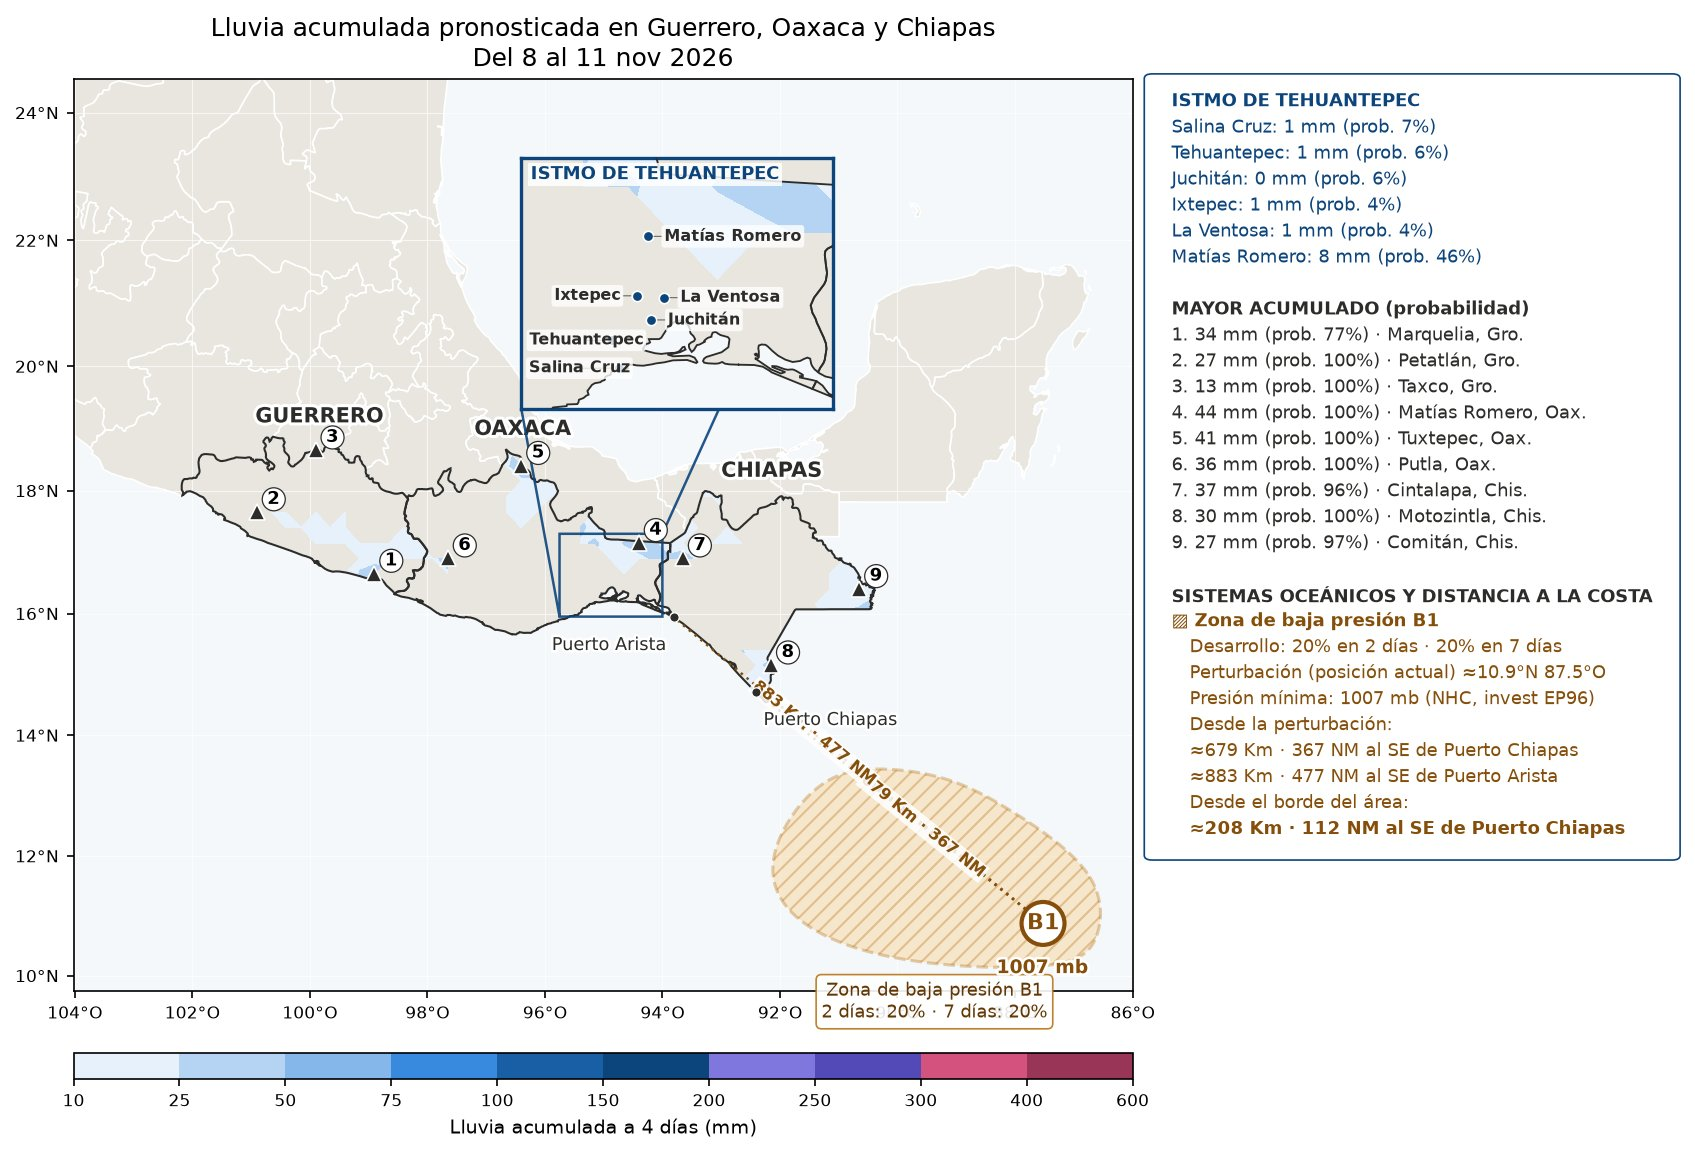
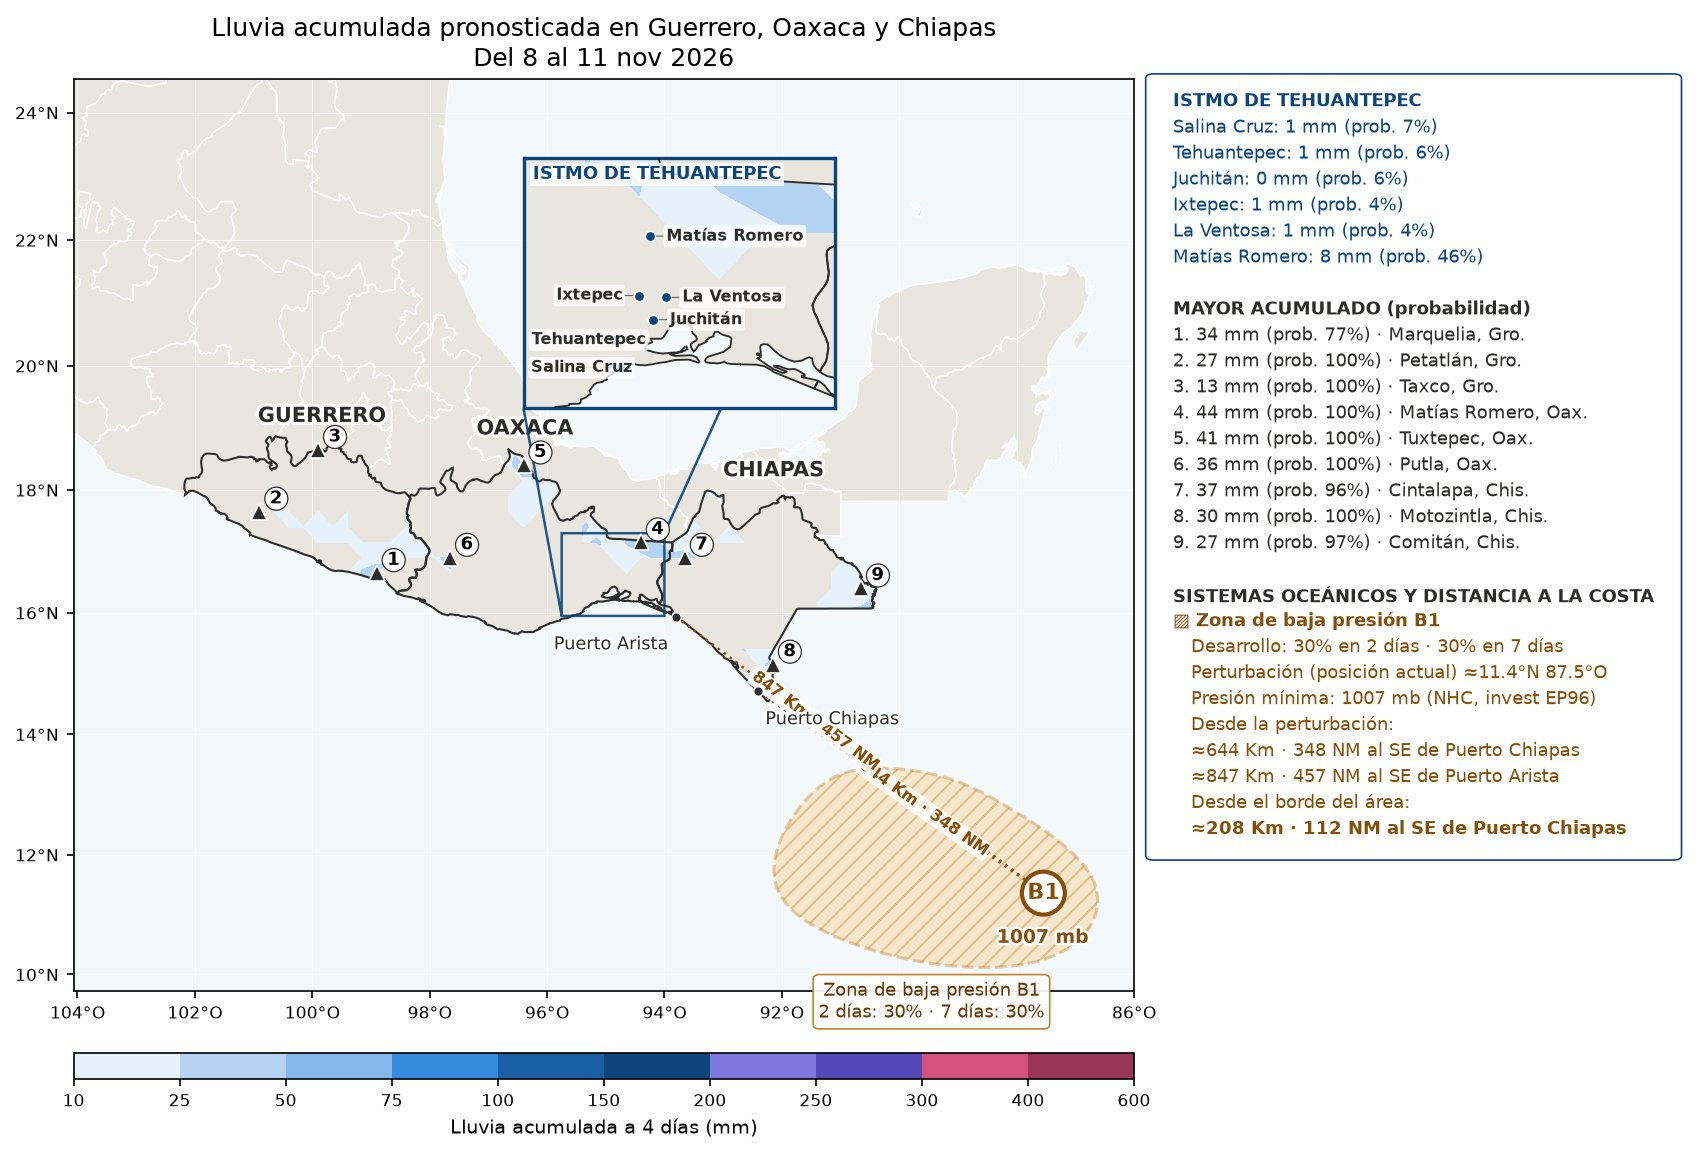
Monitor 08/11 17:37 (mapas nuevos)

diff --git a/index.html b/index.html
@@ -62,7 +62,7 @@ pre{overflow-x:auto;font-size:.75rem;background:var(--bg);padding:10px;border-ra
 <section class="t" id="sec_log"><details><summary>Registro (últimas líneas)</summary><pre id="log"></pre></details></section>
 </main>
 <div id="zoom"><img alt=""></div>
-<script id="datos" type="application/json">{"generado": "2026-11-08T17:27:04.737230", "ultima_revision": "2026-11-08T17:27:04.664332", "decision": "sin cambios", "ultima_imagen": "2026-11-08T14:50:18.399051", "motivo_imagen": "cambios acumulados en 3 h: modelo", "pendientes": [], "intervalo_h": 3, "resumen": {"ciclones": {}, "zonas": [{"lat": 10.9, "lon": -87.5, "n": "1", "p2": 20, "p7": 20}]}, "historial": [{"fecha": "2026-11-06T18:07:20.063705", "motivo": "cambios acumulados en 3 h: zonas"}, {"fecha": "2026-11-06T21:20:13.746060", "motivo": "cambios acumulados en 3 h: modelo"}, {"fecha": "2026-11-07T00:27:15.808029", "motivo": "cambios acumulados en 3 h: zonas"}, {"fecha": "2026-11-07T03:40:12.642258", "motivo": "cambios acumulados en 3 h: modelo"}, {"fecha": "2026-11-07T06:47:15.590117", "motivo": "cambios acumulados en 3 h: zonas"}, {"fecha": "2026-11-07T10:00:13.095070", "motivo": "cambios acumulados en 3 h: modelo"}, {"fecha": "2026-11-07T11:37:16.646771", "motivo": "CAMBIO SIGNIFICATIVO: zona de baja presión: 30/30% → 20/20% (2/7 días)"}, {"fecha": "2026-11-07T14:50:17.694586", "motivo": "cambios acumulados en 3 h: modelo"}, {"fecha": "2026-11-07T18:27:20.258510", "motivo": "cambios acumulados en 3 h: zonas"}, {"fecha": "2026-11-07T21:40:22.583808", "motivo": "cambios acumulados en 3 h: modelo"}, {"fecha": "2026-11-08T00:47:17.451399", "motivo": "cambios acumulados en 3 h: zonas"}, {"fecha": "2026-11-08T04:00:21.943178", "motivo": "cambios acumulados en 3 h: modelo"}, {"fecha": "2026-11-08T07:10:12.202337", "motivo": "cambios acumulados en 3 h: zonas, modelo"}, {"fecha": "2026-11-08T11:37:16.901767", "motivo": "cambios acumulados en 3 h: zonas"}, {"fecha": "2026-11-08T14:50:18.399051", "motivo": "cambios acumulados en 3 h: modelo"}], "imagenes": {"lluvia": {"src": "lluvia.jpg?v=202611081450", "fecha": "2026-11-08T14:50:12.052462"}, "viento": {"src": "viento.jpg?v=202611081450", "fecha": "2026-11-08T14:50:16.735665"}}, "log": [], "umbral_av": 50, "umbral_mal": 110}</script>
+<script id="datos" type="application/json">{"generado": "2026-11-08T17:37:16.638521", "ultima_revision": "2026-11-08T17:37:16.585322", "decision": "imágenes generadas", "ultima_imagen": "2026-11-08T17:37:16.585322", "motivo_imagen": "CAMBIO SIGNIFICATIVO: zona de baja presión: 20/20% → 30/30% (2/7 días)", "pendientes": [], "intervalo_h": 3, "resumen": {"ciclones": {}, "zonas": [{"lat": 11.4, "lon": -87.5, "n": "1", "p2": 30, "p7": 30}]}, "historial": [{"fecha": "2026-11-06T21:20:13.746060", "motivo": "cambios acumulados en 3 h: modelo"}, {"fecha": "2026-11-07T00:27:15.808029", "motivo": "cambios acumulados en 3 h: zonas"}, {"fecha": "2026-11-07T03:40:12.642258", "motivo": "cambios acumulados en 3 h: modelo"}, {"fecha": "2026-11-07T06:47:15.590117", "motivo": "cambios acumulados en 3 h: zonas"}, {"fecha": "2026-11-07T10:00:13.095070", "motivo": "cambios acumulados en 3 h: modelo"}, {"fecha": "2026-11-07T11:37:16.646771", "motivo": "CAMBIO SIGNIFICATIVO: zona de baja presión: 30/30% → 20/20% (2/7 días)"}, {"fecha": "2026-11-07T14:50:17.694586", "motivo": "cambios acumulados en 3 h: modelo"}, {"fecha": "2026-11-07T18:27:20.258510", "motivo": "cambios acumulados en 3 h: zonas"}, {"fecha": "2026-11-07T21:40:22.583808", "motivo": "cambios acumulados en 3 h: modelo"}, {"fecha": "2026-11-08T00:47:17.451399", "motivo": "cambios acumulados en 3 h: zonas"}, {"fecha": "2026-11-08T04:00:21.943178", "motivo": "cambios acumulados en 3 h: modelo"}, {"fecha": "2026-11-08T07:10:12.202337", "motivo": "cambios acumulados en 3 h: zonas, modelo"}, {"fecha": "2026-11-08T11:37:16.901767", "motivo": "cambios acumulados en 3 h: zonas"}, {"fecha": "2026-11-08T14:50:18.399051", "motivo": "cambios acumulados en 3 h: modelo"}, {"fecha": "2026-11-08T17:37:16.585322", "motivo": "CAMBIO SIGNIFICATIVO: zona de baja presión: 20/20% → 30/30% (2/7 días)"}], "imagenes": {"lluvia": {"src": "lluvia.jpg?v=202611081737", "fecha": "2026-11-08T17:37:10.410585"}, "viento": {"src": "viento.jpg?v=202611081737", "fecha": "2026-11-08T17:37:14.903162"}}, "log": [], "umbral_av": 50, "umbral_mal": 110}</script>
 <script>
 const D = JSON.parse(document.getElementById("datos").textContent);
 const $ = id => document.getElementById(id);
